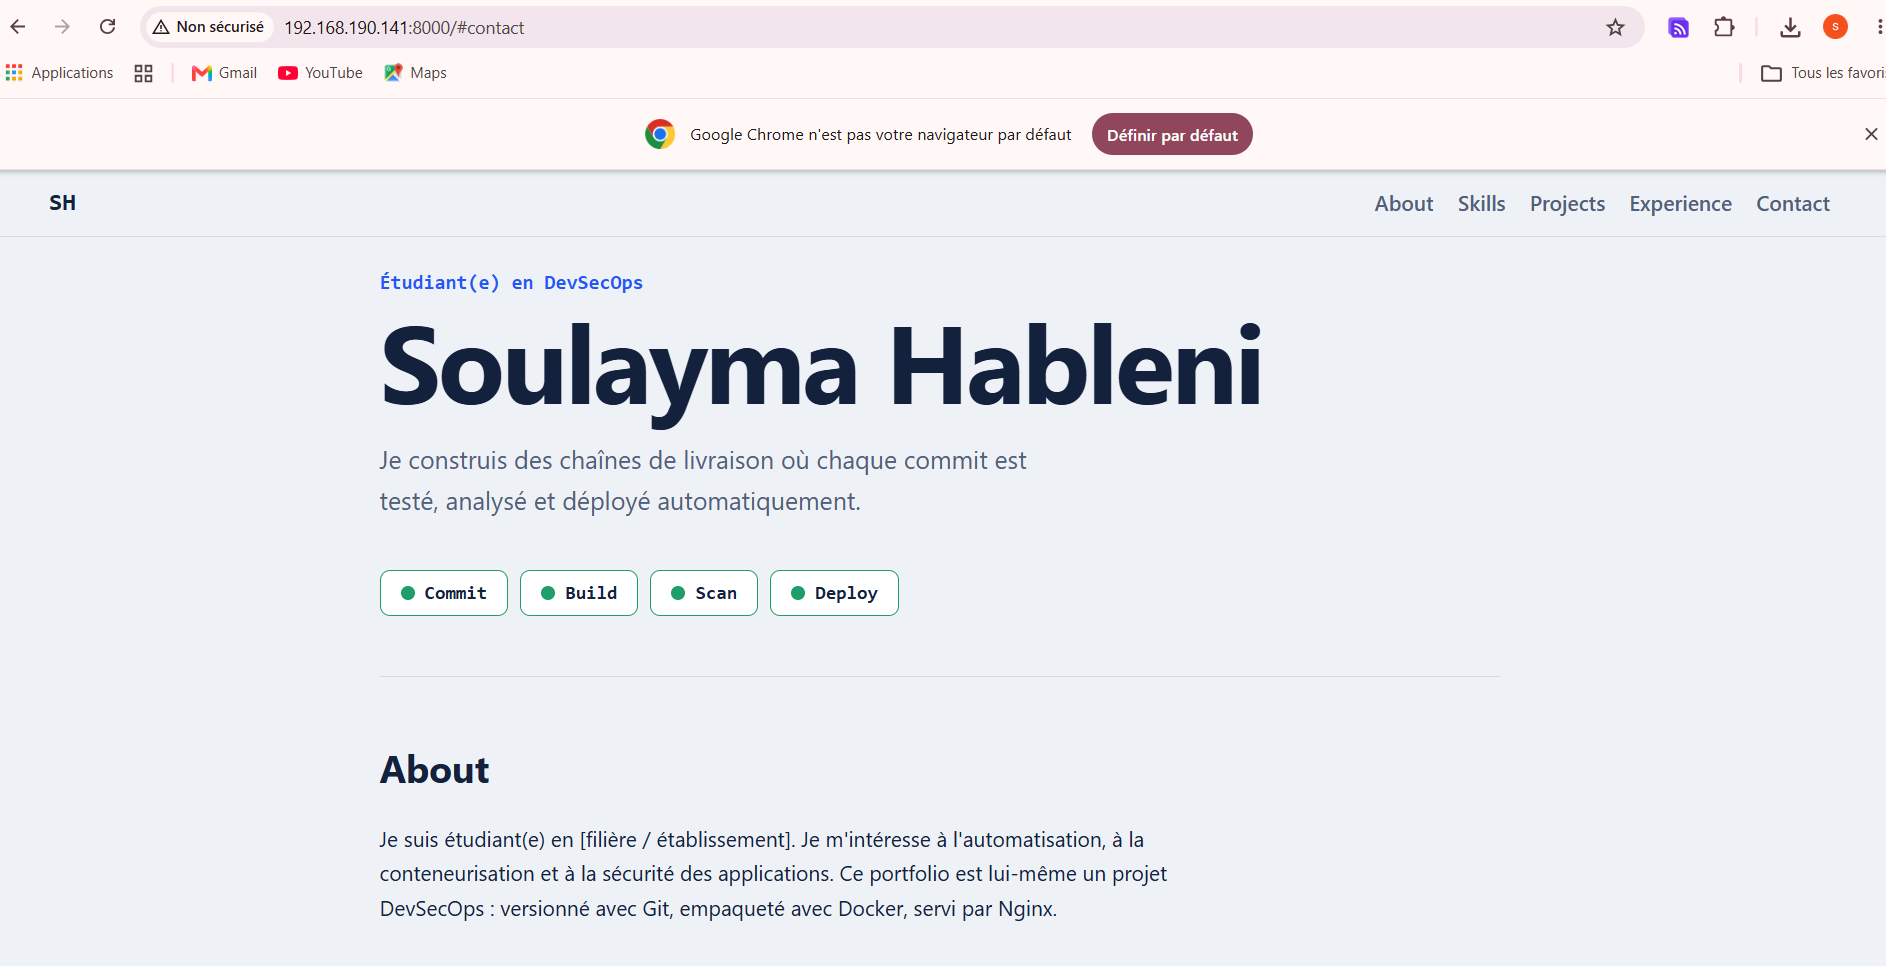
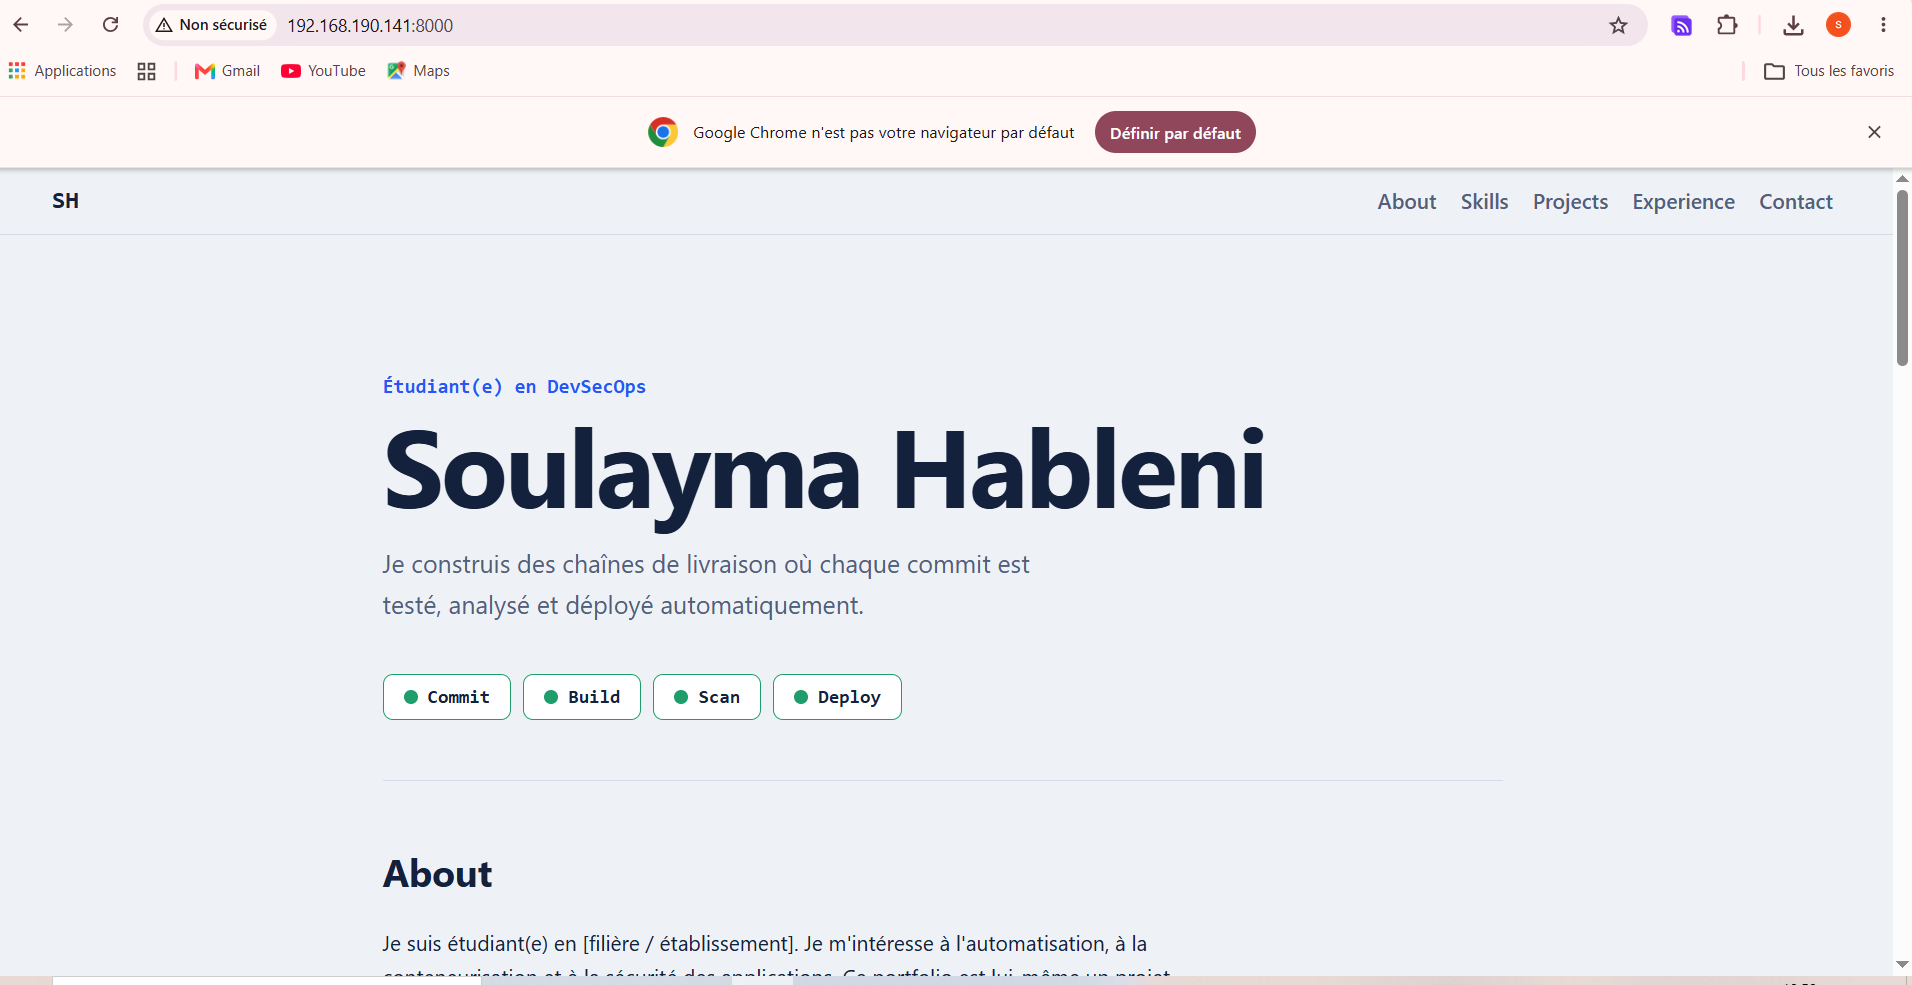
Add full README with screenshots and Vagrantfile

diff --git a/README.md b/README.md
@@ -1,6 +1,332 @@
+# DevSecOps Portfolio – TP Automatisation (Ubuntu Server, Docker, Jenkins, Vagrant)
 
-## Mini CV One Page
+**Auteure :** Soulayma Hableni
+**Dépôt GitHub :** https://github.com/soulaymahableni/mini-cv
 
-Dépôt : https://github.com/soulaymahableni/mini-cv
+**Environnement :** machine physique Windows, VMware Workstation, VM Ubuntu Server 26.04.1 LTS (`automatisation`, IP `192.168.190.141`).
 
-![CV](images/04-cv.png)
+---
+
+## 1. Installation d'Ubuntu Server 26.04 et accès SSH sécurisé
+
+Installation d'Ubuntu Server 26.04 dans VMware (réseau accessible depuis la machine physique), avec le paquet OpenSSH activé.
+
+```bash
+sudo apt update && sudo apt install -y openssh-server
+sudo systemctl enable --now ssh
+ip -4 a                      # relever l'adresse IP de la VM
+sudo ufw allow OpenSSH
+sudo ufw enable
+```
+
+**Sécurisation (authentification par clé) – depuis la machine physique (PowerShell) :**
+
+```powershell
+ssh-keygen -t ed25519 -C "tp-devsecops"
+type $env:USERPROFILE\.ssh\id_ed25519.pub | ssh automatisation@192.168.190.141 "mkdir -p ~/.ssh && cat >> ~/.ssh/authorized_keys && chmod 700 ~/.ssh && chmod 600 ~/.ssh/authorized_keys"
+```
+
+**Durcissement dans la VM :**
+
+```bash
+sudo nano /etc/ssh/sshd_config.d/99-hardening.conf
+```
+```
+PermitRootLogin no
+PasswordAuthentication no
+PubkeyAuthentication yes
+MaxAuthTries 3
+```
+```bash
+sudo sshd -t && sudo systemctl restart ssh
+```
+
+> Ne désactiver `PasswordAuthentication` qu'après avoir vérifié que la connexion par clé fonctionne.
+
+## 2. Test de l'accès SSH depuis la machine physique
+
+```powershell
+ssh automatisation@192.168.190.141
+```
+
+![Connexion SSH](images/01-ssh.png)
+
+## 3. Installation de Docker
+
+```bash
+sudo apt update && sudo apt install -y ca-certificates curl
+sudo install -m 0755 -d /etc/apt/keyrings
+sudo curl -fsSL https://download.docker.com/linux/ubuntu/gpg -o /etc/apt/keyrings/docker.asc
+echo "deb [arch=$(dpkg --print-architecture) signed-by=/etc/apt/keyrings/docker.asc] https://download.docker.com/linux/ubuntu $(. /etc/os-release && echo $VERSION_CODENAME) stable" | sudo tee /etc/apt/sources.list.d/docker.list
+sudo apt update
+sudo apt install -y docker-ce docker-ce-cli containerd.io docker-buildx-plugin docker-compose-plugin
+sudo usermod -aG docker $USER && newgrp docker
+docker --version
+docker run hello-world
+```
+
+![Docker](images/02-docker.png)
+
+## 4. Installation de Jenkins (service)
+
+```bash
+sudo apt install -y fontconfig openjdk-21-jre
+sudo wget -O /etc/apt/keyrings/jenkins-keyring.asc https://pkg.jenkins.io/debian-stable/jenkins.io-2026.key
+echo "deb [signed-by=/etc/apt/keyrings/jenkins-keyring.asc] https://pkg.jenkins.io/debian-stable binary/" | sudo tee /etc/apt/sources.list.d/jenkins.list
+sudo apt update && sudo apt install -y jenkins
+sudo systemctl enable --now jenkins
+systemctl status jenkins --no-pager
+sudo ufw allow 8080/tcp
+sudo cat /var/lib/jenkins/secrets/initialAdminPassword
+```
+
+Vérification depuis la machine physique : `http://192.168.190.141:8080`
+
+![Jenkins](images/03-jenkins.png)
+
+## 5. Mini CV One Page (HTML5 / CSS3 / JavaScript) géré avec Git
+
+```bash
+mkdir ~/mini-cv && cd ~/mini-cv
+git init -b main
+git add .
+git commit -m "Ajout du mini CV one page (HTML/CSS/JS)"
+```
+
+Lien GitHub : https://github.com/soulaymahableni/mini-cv
+
+![Mini CV](images/04-cv.png)
+
+## 6. Push GitHub via SSH
+
+```bash
+ssh-keygen -t ed25519 -C "votre@email.com"
+cat ~/.ssh/id_ed25519.pub
+# GitHub > Settings > SSH and GPG keys > New SSH key > coller la clé publique > Add SSH key
+ssh -T git@github.com
+git remote add origin git@github.com:soulaymahableni/mini-cv.git
+git remote -v
+git push -u origin main
+```
+
+![Clé publique](images/05-ssh-key-pub.png)
+![Clé ajoutée sur GitHub](images/05-github-key.png)
+![Test ssh -T git@github.com](images/05-ssh-test.png)
+![git remote -v](images/05-git-remote.png)
+
+---
+
+## 7. Évolution vers un DevSecOps Portfolio
+
+Sections : **About, Skills, Projects, Experience, Contact**.
+
+Principales améliorations :
+- barre de navigation fixe avec liens vers chaque section ;
+- bandeau d'accueil avec un pipeline animé (Commit → Build → Scan → Deploy) ;
+- mise en page responsive (grille CSS) et thème clair/sombre automatique ;
+- accessibilité : focus visible, respect de `prefers-reduced-motion` ;
+- contenu des projets piloté par JavaScript (voir étape 9).
+
+![Portfolio](images/06-portfolio.png)
+
+## 8. Section DevSecOps Skills
+
+Git, Docker, Jenkins, Kubernetes, Ansible, Terraform, Argo CD : une carte par outil, avec son usage dans le projet.
+
+![Skills](images/07-skills.png)
+
+## 9. Section Projects dynamique (JavaScript)
+
+```js
+const projects = [
+  { title: "Portfolio DevSecOps", description: "Site statique servi par Nginx dans un conteneur Docker.",
+    tags: ["Docker", "Git"], link: "https://github.com/soulaymahableni/mini-cv" },
+  { title: "Pipeline Jenkins", description: "Build et test automatiques à chaque push GitHub.",
+    tags: ["Jenkins", "Git"], link: "#" },
+  // ...
+];
+
+projects.forEach(p => {
+  const card = document.createElement("article");
+  card.className = "project";
+  card.innerHTML = `<h3>${p.title}</h3><p>${p.description}</p>`;
+  list.appendChild(card);
+});
+```
+
+Les cartes et les boutons de filtre sont générés à partir du tableau `projects`.
+
+![Projects](images/08-projects.png)
+
+---
+
+## 10. Dockerfile
+
+```dockerfile
+FROM nginx:alpine
+COPY index.html style.css script.js /usr/share/nginx/html/
+EXPOSE 80
+```
+
+- `FROM nginx:alpine` : image Nginx légère (basée sur Alpine) ;
+- `COPY` : place les fichiers du portfolio dans le dossier servi par Nginx ;
+- `EXPOSE 80` : documente le port d'écoute du conteneur.
+
+## 11. Construction de l'image `cv-docker`
+
+```bash
+docker build -t cv-docker .
+docker images | grep cv-docker
+```
+
+![docker build](images/09-build.png)
+
+## 12. Exécution du conteneur
+
+Le port 8080 étant utilisé par Jenkins, le portfolio est exposé sur le port **8081**.
+
+```bash
+docker run -d --name cv -p 8081:80 cv-docker
+docker ps
+```
+
+Accès depuis la machine physique : `http://192.168.190.141:8081`
+
+> **Problème rencontré :** le site était inaccessible depuis la machine physique (timeout), alors que le conteneur tournait. Cause : le pare-feu UFW bloquait le port et le trafic du réseau Docker. Solution :
+> ```bash
+> sudo ufw allow 8081/tcp
+> sudo ufw allow in on docker0
+> sudo ufw route allow in on docker0
+> sudo ufw route allow out on docker0
+> ```
+
+![docker run et docker ps](images/10-run.png)
+![curl : réponse 200 OK de Nginx](images/10-curl.png)
+![Portfolio sur le port 8081](images/10b-run-web.png)
+
+## 13. Déploiement avec Docker Compose
+
+`docker-compose.yml` :
+
+```yaml
+services:
+  portfolio:
+    image: cv-docker
+    build: .
+    container_name: portfolio
+    ports:
+      - "8081:80"
+    restart: unless-stopped
+```
+
+```bash
+docker rm -f cv
+docker compose up -d
+docker compose ps
+```
+
+Résultat :
+
+```
+NAME        IMAGE       COMMAND                  SERVICE     STATUS         PORTS
+portfolio   cv-docker   "/docker-entrypoint.…"   portfolio   Up 6 minutes   0.0.0.0:8081->80/tcp, [::]:8081->80/tcp
+```
+
+![docker compose up -d](images/11-compose.png)
+![docker compose ps](images/11b-compose-ps.png)
+
+## 14. Publication sur GitHub via SSH
+
+```bash
+git add .
+git commit -m "Add DevSecOps portfolio, Dockerfile and Compose"
+git push origin main
+```
+
+Dépôt mis à jour : https://github.com/soulaymahableni/mini-cv
+
+---
+
+## 15. Vagrant : création automatique d'une VM Ubuntu
+
+**Vérification des ressources de la VM :**
+
+```bash
+free -h        # RAM : 3,3 Go
+df -h /        # disque : extension du LVM de 19 Go à 38 Go
+nproc          # 4 CPU
+egrep -c '(vmx|svm)' /proc/cpuinfo   # > 0 : virtualisation imbriquée activée
+```
+
+Pour activer la virtualisation imbriquée, il a fallu désactiver Hyper-V côté Windows (`bcdedit /set hypervisorlaunchtype off`), puis cocher *Virtualize Intel VT-x/EPT* dans les paramètres processeur de la VM VMware.
+
+L'espace disque a été étendu :
+
+```bash
+sudo lvextend -r -l +100%FREE /dev/mapper/ubuntu--vg-ubuntu--lv
+```
+
+**Installation :**
+
+```bash
+wget -O - https://apt.releases.hashicorp.com/gpg | sudo gpg --dearmor -o /usr/share/keyrings/hashicorp-archive-keyring.gpg
+echo "deb [signed-by=/usr/share/keyrings/hashicorp-archive-keyring.gpg] https://apt.releases.hashicorp.com $(. /etc/os-release && echo $VERSION_CODENAME) main" | sudo tee /etc/apt/sources.list.d/hashicorp.list
+sudo apt update && sudo apt install -y vagrant virtualbox
+sudo mkdir -p /etc/vbox && echo "* 192.168.56.0/21" | sudo tee /etc/vbox/networks.conf
+```
+
+**Vagrantfile :**
+
+```ruby
+Vagrant.configure("2") do |config|
+  config.vm.box = "bento/ubuntu-24.04"
+  config.vm.hostname = "ubuntu-vagrant"
+
+  config.vm.provider "virtualbox" do |vb|
+    vb.name   = "ubuntu-vagrant"
+    vb.memory = 1024
+    vb.cpus   = 1
+    vb.customize ["modifyvm", :id, "--paravirtprovider", "kvm"]
+  end
+end
+```
+
+> Une box Ubuntu 24.04 (LTS) est utilisée car une box 26.04 n'est pas forcément disponible.
+
+**Création de la VM :**
+
+```bash
+cd ~/vagrant-lab
+vagrant up
+vagrant status
+```
+
+> **Problème rencontré :** avec un provisioning `apt-get update`, la connexion SSH de la VM imbriquée était coupée (« The SSH connection was unexpectedly closed »), puis la VM passait en état `paused` ou `aborted` (mémoire limitée de la VM hôte). Solutions : libérer la mémoire (arrêt de Docker Compose et de Jenkins), supprimer le provisioning, utiliser `--paravirtprovider kvm`, puis `vagrant destroy -f && vagrant up`.
+
+![vagrant up](images/13-vagrant-up.png)
+
+## 16. Connexion avec `vagrant ssh` et comparaison
+
+```bash
+cd ~/vagrant-lab
+vagrant ssh
+hostname
+cat /etc/os-release | head -3
+exit
+```
+
+![vagrant ssh](images/14-vagrant-ssh.png)
+
+### Comparaison avec la création manuelle de la VM
+
+| Critère | Création manuelle (VMware + ISO) | Vagrant |
+|---|---|---|
+| Temps | long : ISO, installation, réglages | quelques minutes, une commande |
+| Reproductibilité | faible, dépend des choix faits à la main | identique à chaque `vagrant up` |
+| Versionnement | aucun | le `Vagrantfile` est versionné avec Git |
+| Configuration | manuelle | automatisée par le provisioning |
+| Accès SSH | à installer et configurer | `vagrant ssh`, clés gérées automatiquement |
+| Ressources | réglées dans l'interface | décrites dans le code (RAM, CPU, réseau) |
+| Suppression / recréation | longue | `vagrant destroy` puis `vagrant up` |
+
+Vagrant apporte la logique « infrastructure as code » : l'environnement est décrit dans un fichier, partageable et reproductible. La création manuelle reste utile pour apprendre l'installation complète d'un système.
